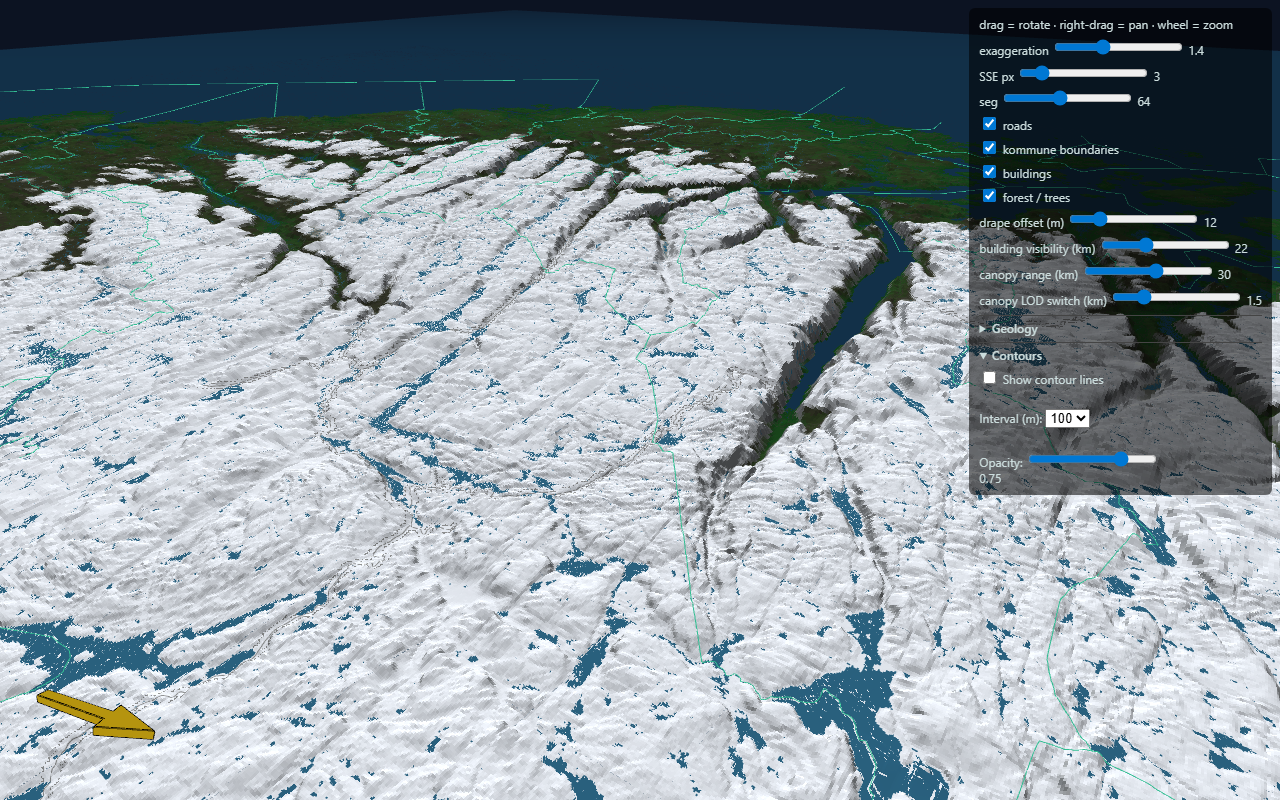
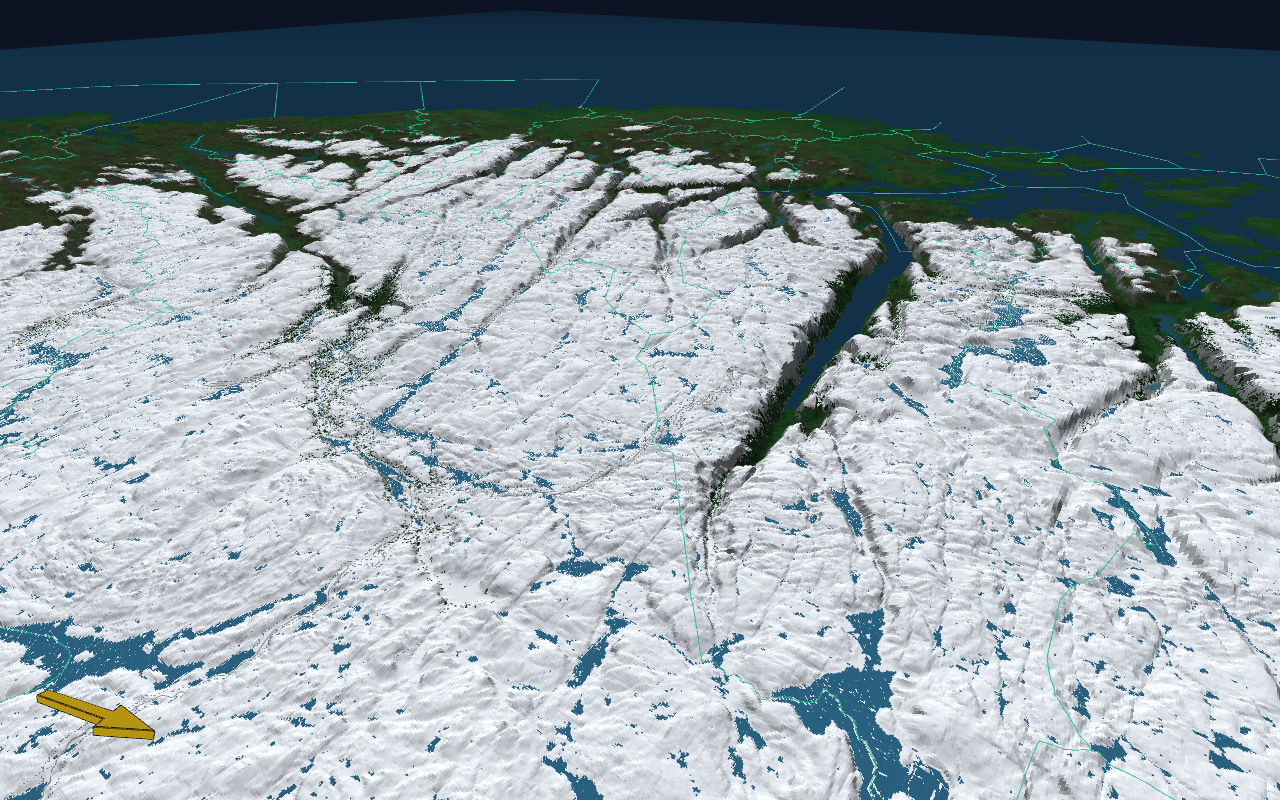
docs(readme): vary the screenshot grid (valley, village, Stavanger)
Replace three of the four README tiles with more varied terrain captured
from the live viewer: a wooded valley (Espedalen), a small fjord village
(Jørpeland), and the city of Stavanger. Re-shoot the overview to match so
all four are clean frames with the UI chrome and floating labels hidden.

diff --git a/README.md b/README.md
@@ -8,11 +8,11 @@ forest+water layers.
 <table>
   <tr>
     <td><img src="docs/screenshots/overview.png" alt="Wide overview of the Rogaland terrain" width="400"></td>
-    <td><img src="docs/screenshots/terrainClose.png" alt="Close-up of terrain detail and lakes" width="400"></td>
+    <td><img src="docs/screenshots/valley.png" alt="Close-up of a wooded valley with a lake" width="400"></td>
   </tr>
   <tr>
-    <td><img src="docs/screenshots/geology.png" alt="Geology overlay across the landscape" width="400"></td>
-    <td><img src="docs/screenshots/forest.png" alt="Forest cover over the hills" width="400"></td>
+    <td><img src="docs/screenshots/village.png" alt="A small village on a fjord, mountains behind" width="400"></td>
+    <td><img src="docs/screenshots/stavanger.png" alt="The city of Stavanger on the coast" width="400"></td>
   </tr>
 </table>
 
